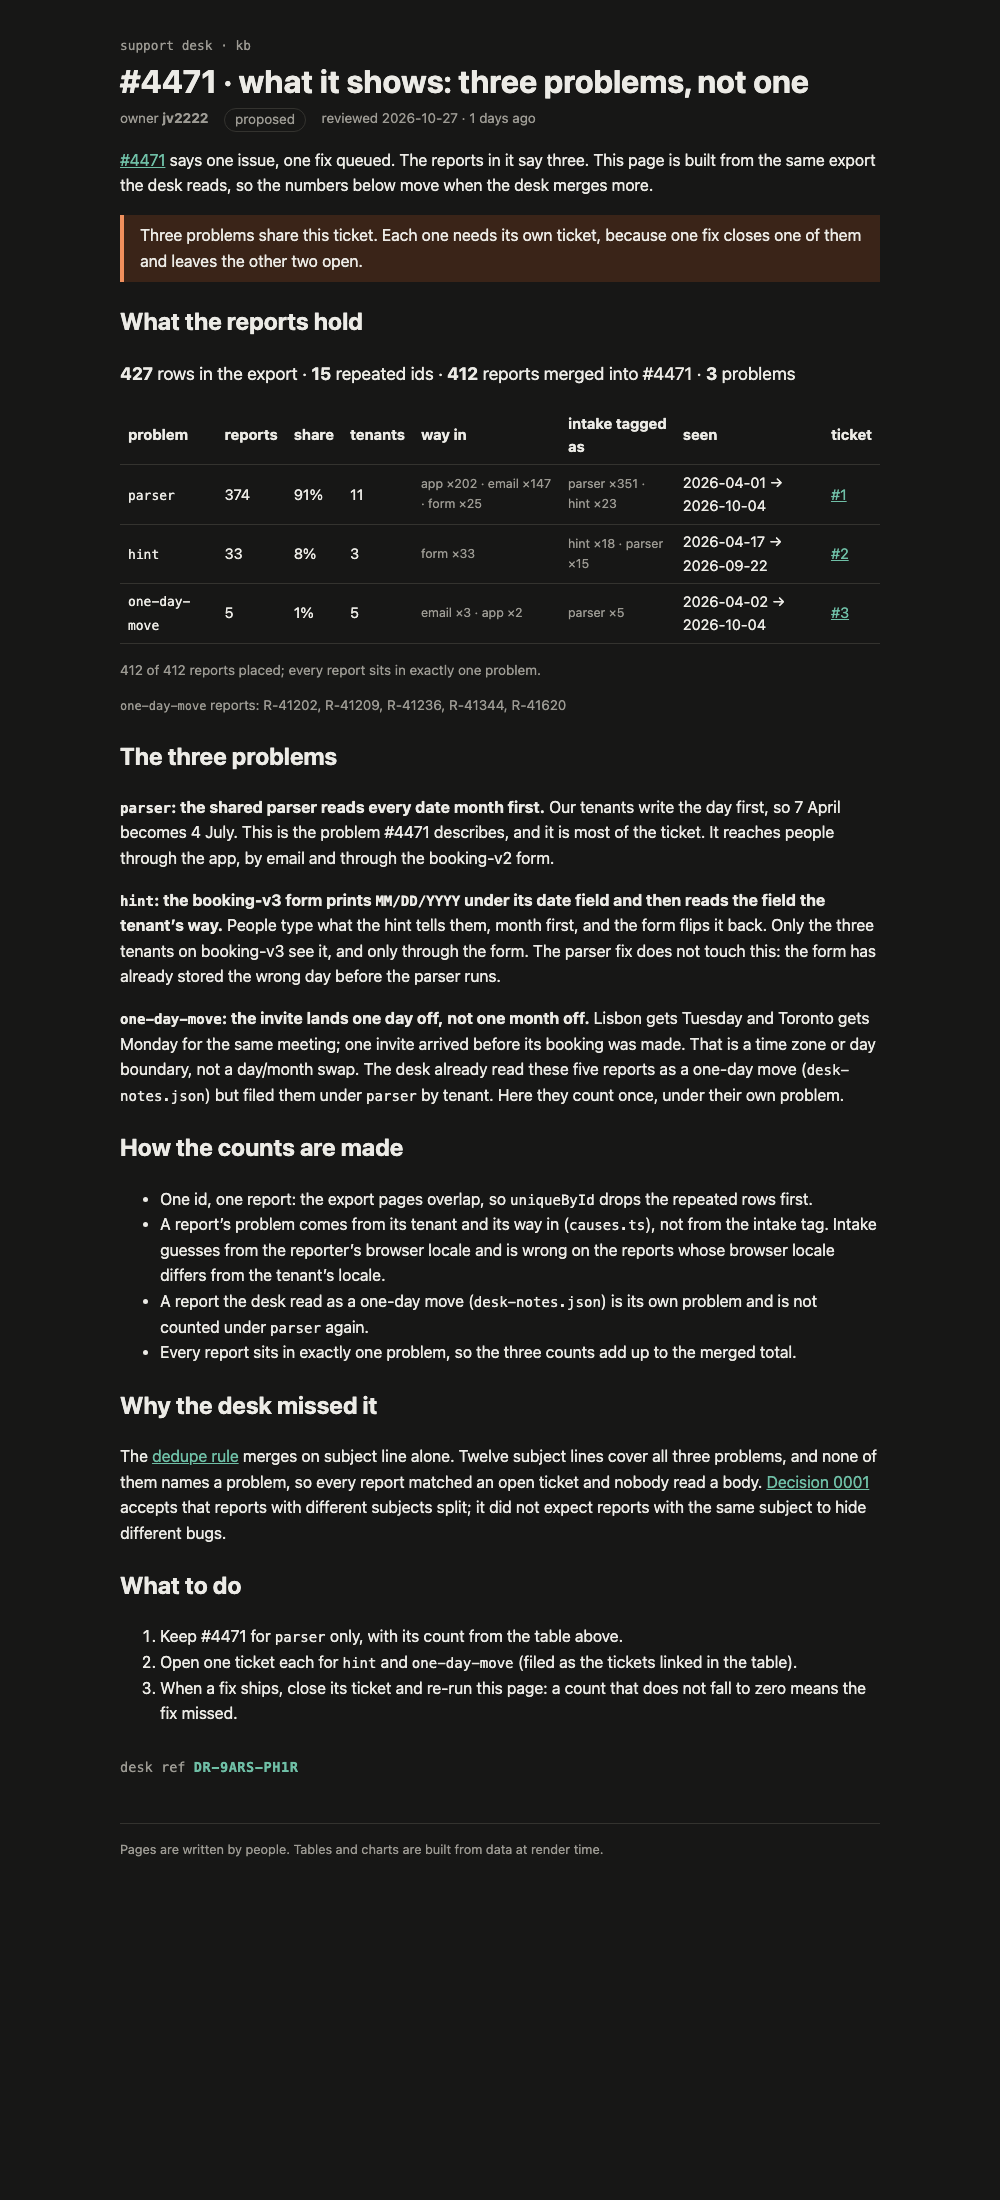
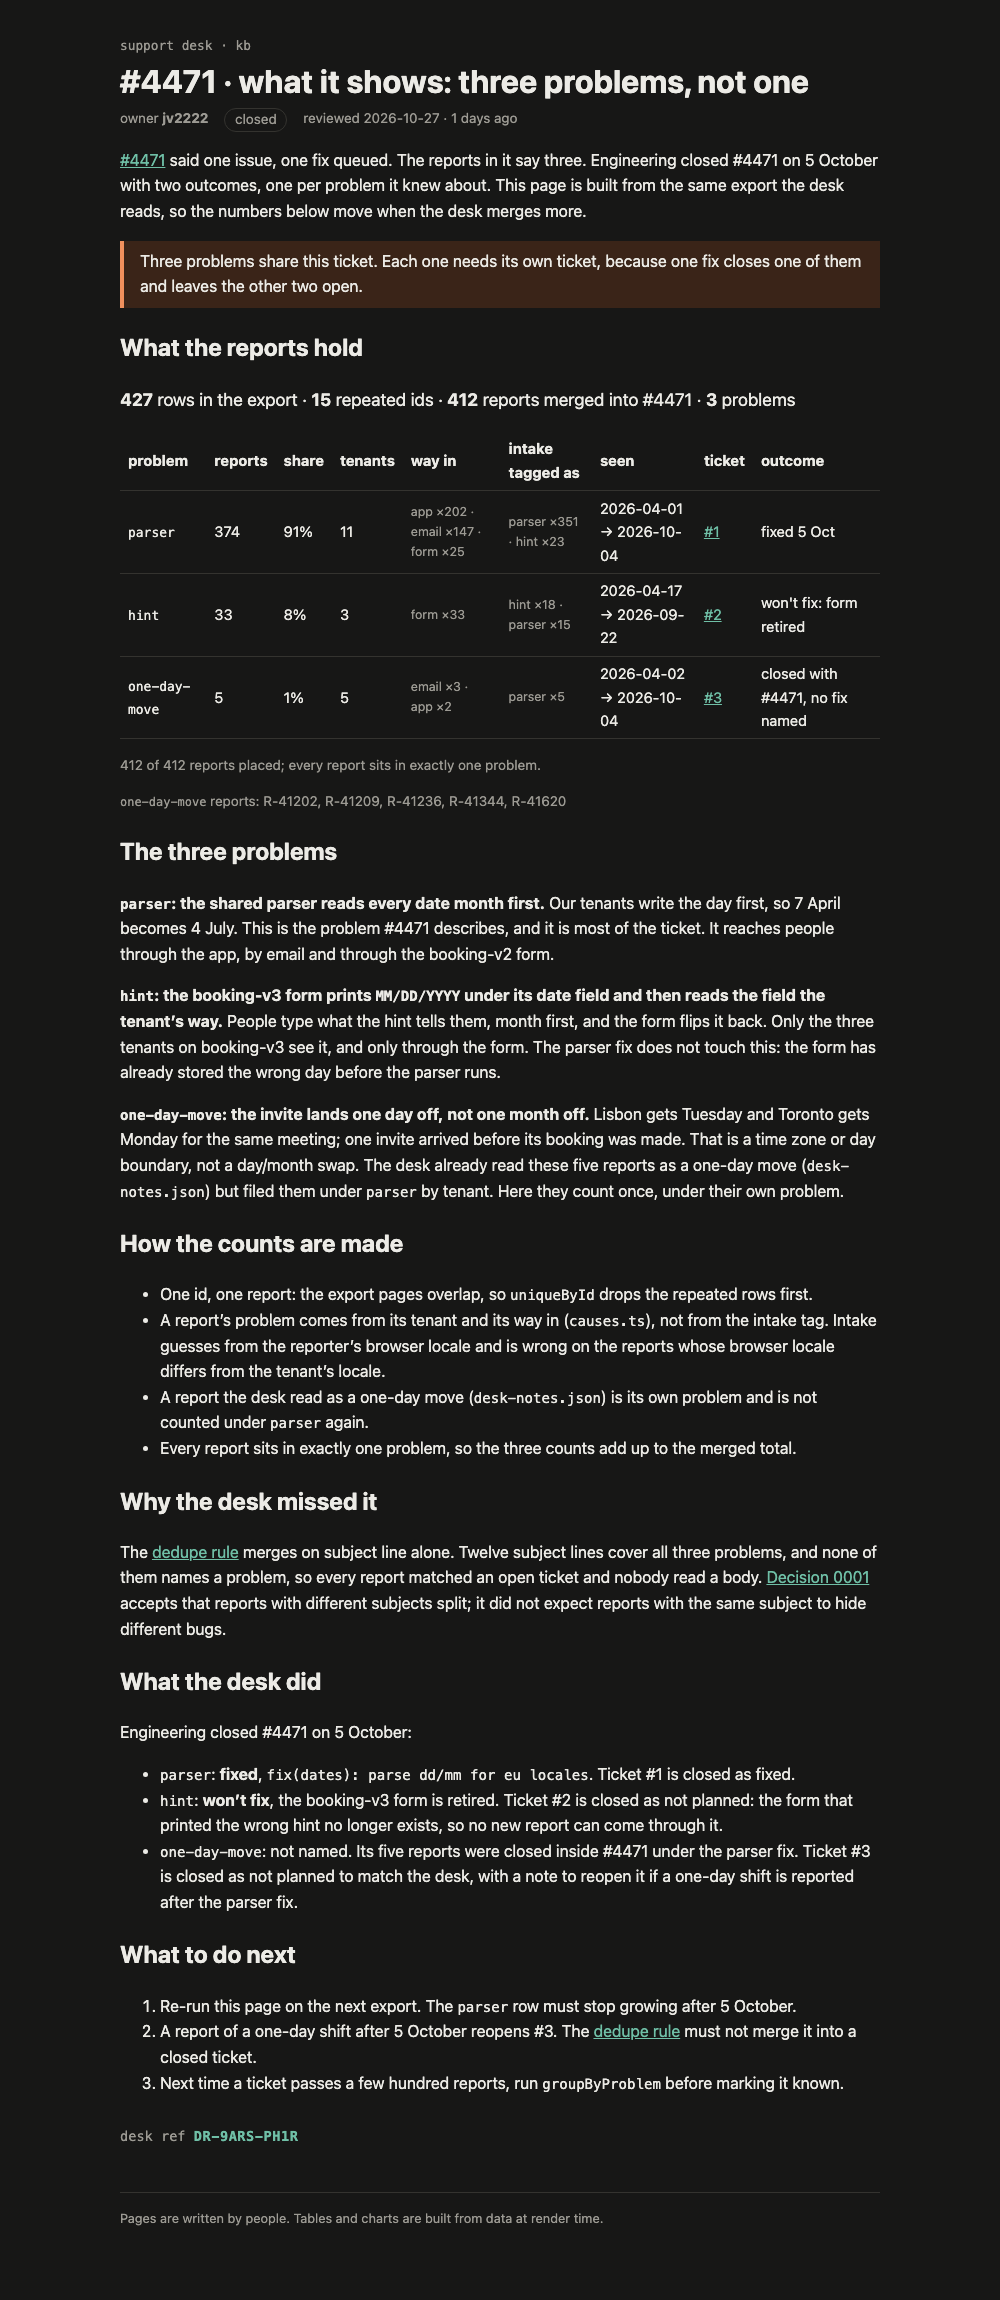
Record the desk's 5 October outcomes on the page; tickets closed to match

Changed region(s): [[0.124, 0.0309, 0.868, 0.9273], [0.837, 0.1855, 0.868, 0.2164]]

diff --git a/rendered/4471-what-it-shows.html b/rendered/4471-what-it-shows.html
@@ -3,7 +3,23 @@
   <head>
     <meta charset="utf-8" />
     <meta name="viewport" content="width=device-width, initial-scale=1" />
-    <!--e2jw2j--><!----><title>#4471 · what it shows: three problems, not one · support kb</title>
+    
+		
+		
+		
+		
+		
+		
+		
+		
+		
+		
+		
+		
+		
+		
+		
+		<!--e2jw2j--><!----><title>#4471 · what it shows: three problems, not one · support kb</title>
 		<style>
 :root{--bg: #fbfaf7;--fg: #1d1d1b;--muted: #6b6a66;--line: #e3e0d8;--accent: #2f6f5e;--warn: #b4501f;--warn-bg: #fbeee6;--note-bg: #eef5f2;--mono: ui-monospace, "Cascadia Code", Menlo, monospace}@media(prefers-color-scheme:dark){:root{--bg: #171716;--fg: #ecebe6;--muted: #9c9a93;--line: #34332f;--accent: #6fbfa6;--warn: #f0905d;--warn-bg: #3a2418;--note-bg: #1d2c27}}body{margin:0;background:var(--bg);color:var(--fg);font:16px/1.6 system-ui,sans-serif}.kb table{border-collapse:collapse;width:100%;margin:1rem 0;font-size:.92rem}.kb th,.kb td{border-bottom:1px solid var(--line);padding:.35rem .5rem;text-align:left}.kb code{font-family:var(--mono);font-size:.88em}.kb a{color:var(--accent)}.kb.svelte-e2jw2j{max-width:760px;margin:0 auto;padding:2rem 16px 4rem}.crumb.svelte-e2jw2j{font:.8rem var(--mono);text-decoration:none;color:var(--muted)}h1.svelte-e2jw2j{margin:.25rem 0 .5rem;line-height:1.2}.meta.svelte-e2jw2j{display:flex;flex-wrap:wrap;gap:.5rem 1rem;color:var(--muted);font-size:.85rem;margin:0}.status.svelte-e2jw2j{border:1px solid var(--line);border-radius:99px;padding:0 .6rem}.stale.svelte-e2jw2j{color:var(--warn);font-weight:600}.banner.svelte-e2jw2j{background:var(--warn-bg);color:var(--warn);padding:.6rem 1rem;border-radius:6px}footer.svelte-e2jw2j{margin-top:3rem;color:var(--muted);font-size:.8rem;border-top:1px solid var(--line);padding-top:1rem}
 
@@ -18,10 +34,10 @@ aside.svelte-17bri61{border-left:4px solid var(--accent);padding:.5rem 1rem;marg
 </style>
   </head>
   <body data-sveltekit-preload-data="hover">
-    <div style="display: contents"><!--[--><!--[0--><!--[--><!--[--><div class="kb svelte-e2jw2j"><header><a class="crumb svelte-e2jw2j" href="/kb">support desk · kb</a> <h1 class="svelte-e2jw2j">#4471 · what it shows: three problems, not one</h1> <p class="meta svelte-e2jw2j"><span>owner <b>jv2222</b></span> <span class="status proposed svelte-e2jw2j">proposed</span> <span class="svelte-e2jw2j">reviewed 2026-10-27 · 1 days ago</span></p></header> <!--[-1--><!--]--> <main><p><a href="/kb/incidents/4471">#4471</a> says one issue, one fix queued. The reports in it say three.
+    <div style="display: contents"><!--[--><!--[0--><!--[--><!--[--><div class="kb svelte-e2jw2j"><header><a class="crumb svelte-e2jw2j" href="/kb">support desk · kb</a> <h1 class="svelte-e2jw2j">#4471 · what it shows: three problems, not one</h1> <p class="meta svelte-e2jw2j"><span>owner <b>jv2222</b></span> <span class="status closed svelte-e2jw2j">closed</span> <span class="svelte-e2jw2j">reviewed 2026-10-27 · 1 days ago</span></p></header> <!--[-1--><!--]--> <main><p><a href="/kb/incidents/4471">#4471</a> said one issue, one fix queued. The reports in it say three. Engineering closed #4471 on 5 October with two outcomes, one per problem it knew about.
 This page is built from the same export the desk reads, so the numbers below move when the
 desk merges more.</p> <aside class="warn svelte-17bri61"><!---->Three problems share this ticket. Each one needs its own ticket, because one fix closes one of
-them and leaves the other two open.<!----></aside><!----> <h2>What the reports hold</h2> <p class="sum svelte-1op6c6"><strong>427</strong> rows in the export · <strong>15</strong> repeated ids · <strong>412</strong> reports merged into #4471 · <strong>3</strong> problems</p> <table><thead><tr><th>problem</th><th>reports</th><th>share</th><th>tenants</th><th>way in</th><th>intake tagged as</th><th>seen</th><th>ticket</th></tr></thead><tbody><!--[--><tr><td><code>parser</code></td><td>374</td><td>91%</td><td>11</td><td class="tags svelte-1op6c6">app ×202 · email ×147 · form ×25</td><td class="tags svelte-1op6c6">parser ×351 · hint ×23</td><td>2026-04-01 → 2026-10-04</td><td><!--[0--><a href="https://github.com/jv2222/mega-s01e03-what-it-shows/issues/1">#1</a><!--]--></td></tr><tr><td><code>hint</code></td><td>33</td><td>8%</td><td>3</td><td class="tags svelte-1op6c6">form ×33</td><td class="tags svelte-1op6c6">hint ×18 · parser ×15</td><td>2026-04-17 → 2026-09-22</td><td><!--[0--><a href="https://github.com/jv2222/mega-s01e03-what-it-shows/issues/2">#2</a><!--]--></td></tr><tr><td><code>one-day-move</code></td><td>5</td><td>1%</td><td>5</td><td class="tags svelte-1op6c6">email ×3 · app ×2</td><td class="tags svelte-1op6c6">parser ×5</td><td>2026-04-02 → 2026-10-04</td><td><!--[0--><a href="https://github.com/jv2222/mega-s01e03-what-it-shows/issues/3">#3</a><!--]--></td></tr><!--]--></tbody></table> <p class="note svelte-1op6c6">412 of 412 reports placed; every report sits in exactly one problem.</p> <!--[--><!--[-1--><!--]--><!--[-1--><!--]--><!--[0--><p class="note svelte-1op6c6"><code>one-day-move</code> reports: R-41202, R-41209, R-41236, R-41344, R-41620</p><!--]--><!--]--><!----> <h2>The three problems</h2> <p><strong><code>parser</code>: the shared parser reads every date month first.</strong> Our tenants write the day
+them and leaves the other two open.<!----></aside><!----> <h2>What the reports hold</h2> <p class="sum svelte-1op6c6"><strong>427</strong> rows in the export · <strong>15</strong> repeated ids · <strong>412</strong> reports merged into #4471 · <strong>3</strong> problems</p> <table><thead><tr><th>problem</th><th>reports</th><th>share</th><th>tenants</th><th>way in</th><th>intake tagged as</th><th>seen</th><th>ticket</th><th>outcome</th></tr></thead><tbody><!--[--><tr><td><code>parser</code></td><td>374</td><td>91%</td><td>11</td><td class="tags svelte-1op6c6">app ×202 · email ×147 · form ×25</td><td class="tags svelte-1op6c6">parser ×351 · hint ×23</td><td>2026-04-01 → 2026-10-04</td><td><!--[0--><a href="https://github.com/jv2222/mega-s01e03-what-it-shows/issues/1">#1</a><!--]--></td><td>fixed 5 Oct</td></tr><tr><td><code>hint</code></td><td>33</td><td>8%</td><td>3</td><td class="tags svelte-1op6c6">form ×33</td><td class="tags svelte-1op6c6">hint ×18 · parser ×15</td><td>2026-04-17 → 2026-09-22</td><td><!--[0--><a href="https://github.com/jv2222/mega-s01e03-what-it-shows/issues/2">#2</a><!--]--></td><td>won't fix: form retired</td></tr><tr><td><code>one-day-move</code></td><td>5</td><td>1%</td><td>5</td><td class="tags svelte-1op6c6">email ×3 · app ×2</td><td class="tags svelte-1op6c6">parser ×5</td><td>2026-04-02 → 2026-10-04</td><td><!--[0--><a href="https://github.com/jv2222/mega-s01e03-what-it-shows/issues/3">#3</a><!--]--></td><td>closed with #4471, no fix named</td></tr><!--]--></tbody></table> <p class="note svelte-1op6c6">412 of 412 reports placed; every report sits in exactly one problem.</p> <!--[--><!--[-1--><!--]--><!--[-1--><!--]--><!--[0--><p class="note svelte-1op6c6"><code>one-day-move</code> reports: R-41202, R-41209, R-41236, R-41344, R-41620</p><!--]--><!--]--><!----> <h2>The three problems</h2> <p><strong><code>parser</code>: the shared parser reads every date month first.</strong> Our tenants write the day
 first, so 7 April becomes 4 July. This is the problem #4471 describes, and it is most of the
 ticket. It reaches people through the app, by email and through the booking-v2 form.</p> <p><strong><code>hint</code>: the booking-v3 form prints <code>MM/DD/YYYY</code> under its date field and then reads the
 field the tenant’s way.</strong> People type what the hint tells them, month first, and the form flips
@@ -36,9 +52,12 @@ browser locale differs from the tenant’s locale.</li> <li>A report the desk re
 counted under <code>parser</code> again.</li> <li>Every report sits in exactly one problem, so the three counts add up to the merged total.</li></ul> <h2>Why the desk missed it</h2> <p>The <a href="/kb/triage/dedupe">dedupe rule</a> merges on subject line alone. Twelve subject lines cover all
 three problems, and none of them names a problem, so every report matched an open ticket and
 nobody read a body. <a href="/kb/decisions/0001-dedupe-by-subject">Decision 0001</a> accepts that reports with
-different subjects split; it did not expect reports with the same subject to hide different bugs.</p> <h2>What to do</h2> <ol><li>Keep #4471 for <code>parser</code> only, with its count from the table above.</li> <li>Open one ticket each for <code>hint</code> and <code>one-day-move</code> (filed as the tickets linked in the table).</li> <li>When a fix ships, close its ticket and re-run this page: a count that does not fall to zero
-means the fix missed.</li></ol> <!--[0--><p class="stamp svelte-1280m42">desk ref <b class="svelte-1280m42">DR-9ARS-PH1R</b></p><!--]--><!----><!----></main> <footer class="svelte-e2jw2j">Pages are written by people. Tables and charts are built from data at render time.</footer></div><!--]--><!----><!--]--><!--]--> <!--[-1--><!--]--><!--]-->
+different subjects split; it did not expect reports with the same subject to hide different bugs.</p> <h2>What the desk did</h2> <p>Engineering closed #4471 on 5 October:</p> <ul><li><code>parser</code>: <strong>fixed</strong>, <code>fix(dates): parse dd/mm for eu locales</code>. Ticket #1 is closed as fixed.</li> <li><code>hint</code>: <strong>won’t fix</strong>, the booking-v3 form is retired. Ticket #2 is closed as not planned: the
+form that printed the wrong hint no longer exists, so no new report can come through it.</li> <li><code>one-day-move</code>: not named. Its five reports were closed inside #4471 under the parser fix.
+Ticket #3 is closed as not planned to match the desk, with a note to reopen it if a one-day
+shift is reported after the parser fix.</li></ul> <h2>What to do next</h2> <ol><li>Re-run this page on the next export. The <code>parser</code> row must stop growing after 5 October.</li> <li>A report of a one-day shift after 5 October reopens #3. The <a href="/kb/triage/dedupe">dedupe rule</a> must not merge it into a closed ticket.</li> <li>Next time a ticket passes a few hundred reports, run <code>groupByProblem</code> before marking it known.</li></ol> <!--[0--><p class="stamp svelte-1280m42">desk ref <b class="svelte-1280m42">DR-9ARS-PH1R</b></p><!--]--><!----><!----></main> <footer class="svelte-e2jw2j">Pages are written by people. Tables and charts are built from data at render time.</footer></div><!--]--><!----><!--]--><!--]--> <!--[-1--><!--]--><!--]-->
 			
-			</div>
+			
+		</div>
   </body>
 </html>

diff --git a/src/lib/kb/ProblemTable.svelte b/src/lib/kb/ProblemTable.svelte
@@ -5,7 +5,7 @@
   import { exportDuplicates, groupByProblem, type Problem } from '#lib/kb/problems';
   import { tenantOf } from '#lib/kb/locales';
 
-  type Ticket = { issue: number; url: string };
+  type Ticket = { issue: number; url: string; outcome: string };
   let { ticket, tickets }: { ticket: number; tickets: Partial<Record<Problem, Ticket>> } = $props();
 
   const raw = reports as Report[];
@@ -29,7 +29,7 @@
 
 <table>
   <thead>
-    <tr><th>problem</th><th>reports</th><th>share</th><th>tenants</th><th>way in</th><th>intake tagged as</th><th>seen</th><th>ticket</th></tr>
+    <tr><th>problem</th><th>reports</th><th>share</th><th>tenants</th><th>way in</th><th>intake tagged as</th><th>seen</th><th>ticket</th><th>outcome</th></tr>
   </thead>
   <tbody>
     {#each groups as g (g.problem)}
@@ -43,6 +43,7 @@
         <td class="tags">{counts(g.taggedAs)}</td>
         <td>{g.firstSeen} → {g.lastSeen}</td>
         <td>{#if t}<a href={t.url}>#{t.issue}</a>{:else}none{/if}</td>
+        <td>{t?.outcome ?? ""}</td>
       </tr>
     {/each}
   </tbody>
